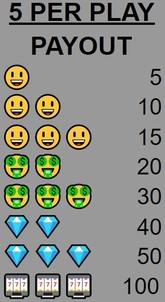
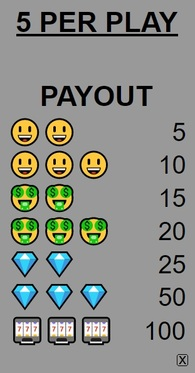
Add/change emojis, new score board

diff --git a/js/main.js b/js/main.js
@@ -5,13 +5,14 @@ const win = new Audio('audio/win.wav');
 const lose = new Audio('audio/lose.wav');
 
 const scoreCard = [
-    { emojiValue: 0, emoji: '😱' },
-    { emojiValue: 1, emoji: '😭', },
-    { emojiValue: 2, emoji: '😠', },
-    { emojiValue: 3, emoji: '😃', },
-    { emojiValue: 4, emoji: '🤑', },
-    { emojiValue: 5, emoji: '💎', },
-    { emojiValue: 6, emoji: '🎰', },
+    { emojiValue: 0, emoji: '🤢' },
+    { emojiValue: 1, emoji: '😱' },
+    { emojiValue: 2, emoji: '😭' },
+    { emojiValue: 3, emoji: '🤬' },
+    { emojiValue: 4, emoji: '😃' },
+    { emojiValue: 5, emoji: '🤑' },
+    { emojiValue: 6, emoji: '💎' },
+    { emojiValue: 7, emoji: '🎰' },
 ]
 
 
@@ -57,18 +58,21 @@ function spinClick() {
         setTimeout(() => {
             score.innerText = totalPoints
         }, 2000);
-        document.getElementById('spinBtn').style.pointerEvents = 'none' //Block SPIN button for been pressed during spinning
+        document.getElementById('spinBtn').style.pointerEvents = 'none'
+        document.getElementById('spinBtn').style.backgroundColor = "#37474F";
+        
+         //Block SPIN button for been pressed during spinning
         let currentTime = 0;
-        let interval = 250;     //Add interval to get a random number every 0.25 second
-        let maxTime = 4500;      //For a total time of 4.5 seconds
+        let interval = 200;     //Add interval to get a random number every 0.25 second
+        let maxTime = 4600;      //For a total time of 4.5 seconds
         // console.log('START')
         let slotInterval = setInterval(function () {
             // console.log('Interval ==> ', currentTime)
             if (currentTime < maxTime) {
                 currentTime += interval
-                reel1 = Math.floor(Math.random() * (6 - 0 + 1)) + 0;
-                reel2 = Math.floor(Math.random() * (6 - 0 + 1)) + 0;
-                reel3 = Math.floor(Math.random() * (6 - 0 + 1)) + 0;
+                reel1 = Math.floor(Math.random() * (7 - 0 + 1)) + 0;
+                reel2 = Math.floor(Math.random() * (7 - 0 + 1)) + 0;
+                reel3 = Math.floor(Math.random() * (7 - 0 + 1)) + 0;
                 console.log('reelnums', reel1, reel2, reel3); //debug random numbers each time functions "runs"
 
                 //Assign the emojis to the random number from reel1, reel2, reel3 using the function findEmoji
@@ -86,6 +90,7 @@ function spinClick() {
             } else {
                 // console.log('END')
                 document.getElementById('spinBtn').style.pointerEvents = 'auto' //Enable SPIN button back after spinning
+                document.getElementById('spinBtn').style.backgroundColor = "#ef1010";
                 clearInterval(slotInterval)
                 render()
             }
@@ -113,9 +118,9 @@ function init() {
     reel3 = null
     results = null
     totalPoints = 50
-    slot1.innerText = scoreCard[6].emoji;
-    slot2.innerText = scoreCard[6].emoji;
-    slot3.innerText = scoreCard[6].emoji;
+    slot1.innerText = scoreCard[7].emoji;
+    slot2.innerText = scoreCard[7].emoji;
+    slot3.innerText = scoreCard[7].emoji;
     score.innerText = totalPoints;
     status.innerText = `✰ ✰ ✰ ✰ ✰ LET'S PLAY ✰ ✰ ✰ ✰ ✰`;
     infoMenu.style.visibility = 'collapse';
@@ -128,18 +133,18 @@ function init() {
 function getWinner() {
     results = null;
     if (reel1 === reel2 && reel1 === reel3 && reel2 === reel3) {
-        if (reel1, reel2, reel3 === 6) {
+        if (reel1, reel2, reel3 === 7) {
             results = 'jackpot';
         }
         else {
-            if (reel1, reel2, reel3 === 3) {
+            if (reel1, reel2, reel3 === 4) {
                 results = 'happy-line';
                 console.log(results);
             }
-            else if (reel1, reel2, reel3 === 4) {
+            else if (reel1, reel2, reel3 === 5) {
                 results = 'cash-line';
             }
-            else if (reel1, reel2, reel3 === 5) {
+            else if (reel1, reel2, reel3 === 6) {
                 results = 'diamond-line';
             }
             else {
@@ -149,35 +154,35 @@ function getWinner() {
     }
     else if (reel1 === reel2 || reel1 === reel3 || reel2 === reel3) {
         if (reel1 === reel2) {
-            if (reel1 === 3) {
+            if (reel1 === 4) {
                 results = 'double-happy'
             }
-            if (reel1 === 4) {
+            if (reel1 === 5) {
                 results = 'double-cash'
             }
-            if (reel1 === 5) {
+            if (reel1 === 6) {
                 results = 'double-diamond'
             }
         }
         else if (reel1 === reel3) {
-            if (reel1 === 3) {
+            if (reel1 === 4) {
                 results = 'double-happy'
             }
-            if (reel1 === 4) {
+            if (reel1 === 5) {
                 results = 'double-cash'
             }
-            if (reel1 === 5) {
+            if (reel1 === 6) {
                 results = 'double-diamond'
             }
         }
         else if (reel2 === reel3) {
-            if (reel2 === 3) {
+            if (reel2 === 4) {
                 results = 'double-happy'
             }
-            if (reel2 === 4) {
+            if (reel2 === 5) {
                 results = 'double-cash'
             }
-            if (reel2 === 5) {
+            if (reel2 === 6) {
                 results = 'double-diamond'
             }
         }
@@ -185,9 +190,9 @@ function getWinner() {
             return;
         }
     }
-    else if (reel1 === 3 || reel2 === 3 || reel3 === 3) {
-        results = 'single-happy'
-    }
+    // else if (reel1 === 3 || reel2 === 3 || reel3 === 3) {
+    //     results = 'single-happy'
+    // }
     else {
         return
     }
@@ -249,10 +254,10 @@ function render() {
             win.play();
         }
     }
-    else if (results === 'single-happy') {
-        status.innerText = "✰ ✰ ✰ ✰ ✰ BE HAPPY ✰ ✰ ✰ ✰ ✰";
-        points += 5;
-    }
+    // else if (results === 'single-happy') {
+    //     status.innerText = "✰ ✰ ✰ ✰ ✰ BE HAPPY ✰ ✰ ✰ ✰ ✰";
+    //     points += 5;
+    // }
     else {
         if (reel1 === null) {
             return;

diff --git a/css/main.css b/css/main.css
@@ -192,24 +192,22 @@ section.console:first-child {
 }
 
 #payout {
-    width: 30%;
-    padding: 50px 0;
+    width: 210px;
+    padding: 48px 0;
     text-align: center;
     background-color: gray;
-    margin-top: 20px;
     visibility: collapse;
     position: absolute;
     border-radius: 11px;
     border: 5px double white;
-    box-shadow: 0 0 34px rgb(90, 84, 84);   
+    box-shadow: 0 0 34px rgb(90 84 84);
     background-color: rgb(153 153 153);
-    height: 33%;    
     background-image: url(/images/payout.jpg);
     background-repeat: no-repeat;
     background-position: center;
     margin-bottom: 500px;
+    height: 290px;
 }
-
 
 /* 768px is a common "breakpoint" width for tablets */
 @media only screen and (min-width: 768px) {
